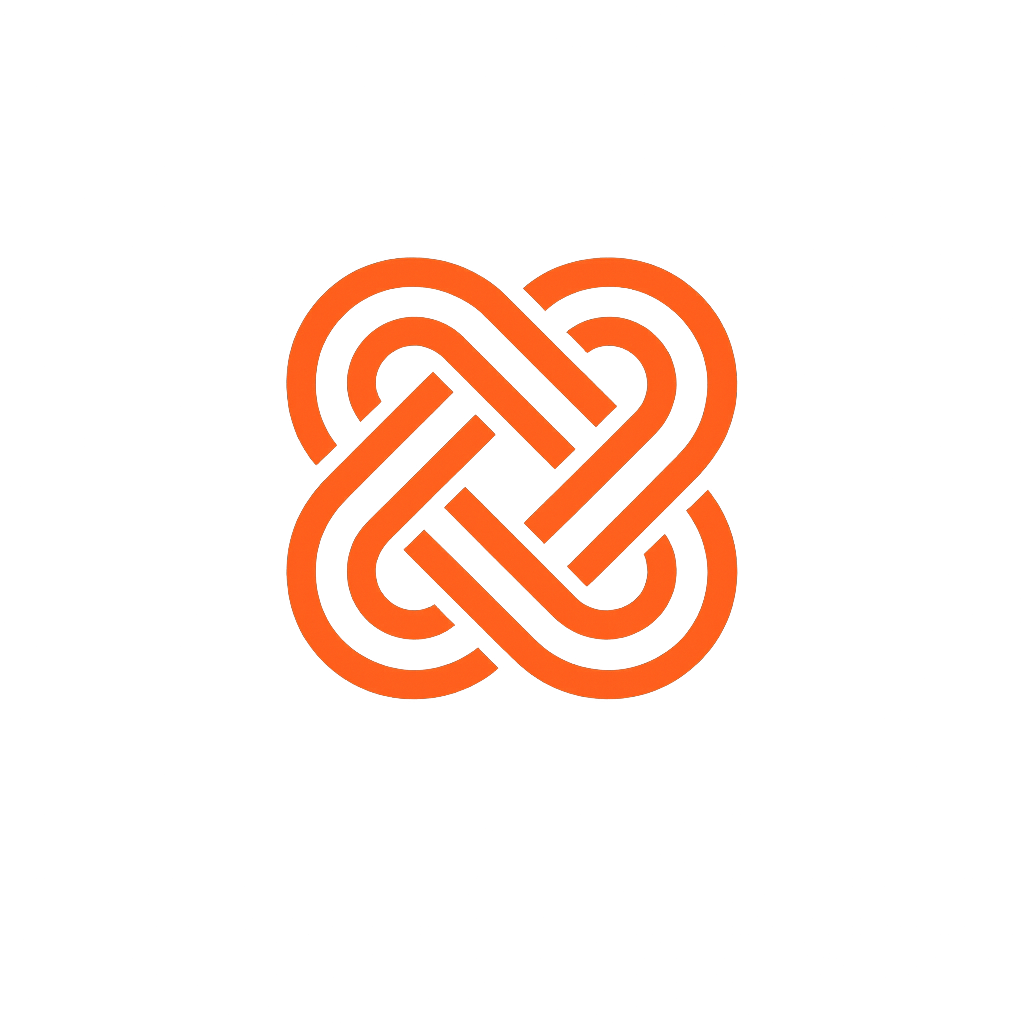
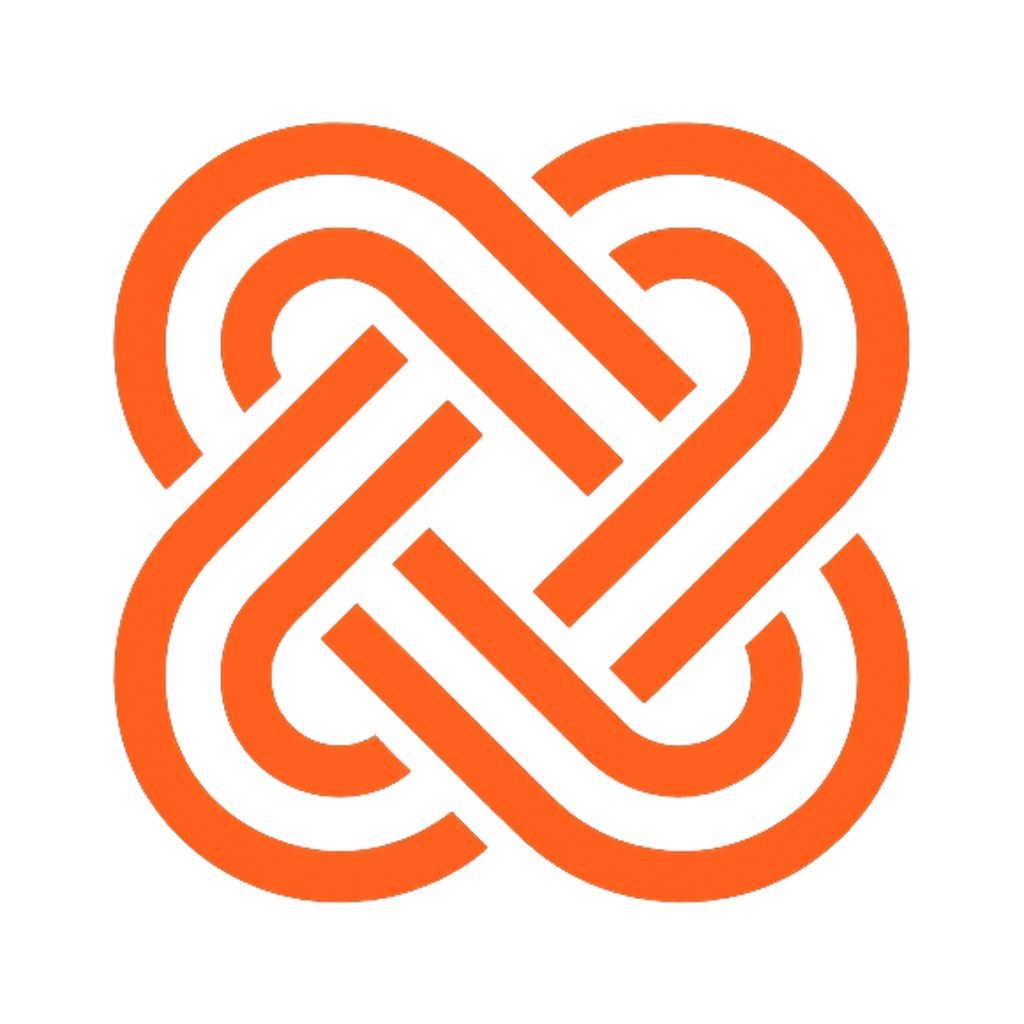
style: shrink nav brand mark, sharpen CTA weight

diff --git a/app/globals.css b/app/globals.css
@@ -73,7 +73,7 @@ a {
   border-radius: 999px;
   padding: 0.86rem 1.9rem;
   font-size: 0.95rem;
-  font-weight: 600;
+  font-weight: 700;
   box-shadow: var(--shadow-premium);
   transition: transform 140ms var(--ease-out-ui), background-color 180ms ease,
     color 180ms ease;
@@ -88,7 +88,11 @@ a {
   outline-offset: 4px;
 }
 
-.premium-cta-label { display: inline-flex; line-height: 1.25; }
+.premium-cta-label {
+  display: inline-flex;
+  line-height: 1.25;
+  -webkit-text-stroke: 0.4px currentColor;
+}
 .premium-cta-glyph { display: block; height: 1.25em; overflow: hidden; }
 .premium-cta-glyph-track {
   display: flex;
@@ -267,8 +271,8 @@ a {
 
 .nav-brand-mark {
   display: block;
-  width: 3.4rem;
-  height: 3.4rem;
+  width: 2.4rem;
+  height: 2.4rem;
   object-fit: contain;
   animation: nav-brand-spin 4s linear infinite;
 }
@@ -332,7 +336,8 @@ a {
   padding: 0 1.15rem;
   color: var(--color-paper);
   font-size: 0.72rem;
-  font-weight: 600;
+  font-weight: 700;
+  -webkit-text-stroke: 0.4px currentColor;
   transition: transform 140ms var(--ease-out-ui), background-color 180ms ease;
 }
 .nav-cta:active { transform: scale(0.97); }
@@ -505,7 +510,7 @@ a {
   }
   .nav-roll-track { transition: transform 200ms var(--ease-out-ui); }
   .nav-link:hover .nav-roll-track { transform: translate3d(0, -50%, 0); }
-  .nav-cta:hover { background: color-mix(in srgb, var(--color-ink) 88%, var(--color-ember)); transform: translate3d(0, -1px, 0); }
+  .nav-cta:hover { background: color-mix(in srgb, var(--color-ember) 88%, var(--color-ink)); transform: translate3d(0, -1px, 0); }
   .turn-media-card {
     transition: transform 320ms var(--ease-out-ui), filter 260ms ease;
   }

diff --git a/components/sections/Nav.tsx b/components/sections/Nav.tsx
@@ -53,7 +53,7 @@ export function Nav() {
         data-scrolled={scrolled}
       >
         <a aria-label="Weft home" className="nav-brand" href="#main-content">
-          <img alt="" className="nav-brand-mark" height={54} src="/icon.png" width={54} />
+          <img alt="" className="nav-brand-mark" height={38} src="/icon.png" width={38} />
           <span className="font-display">weft</span>
         </a>
 